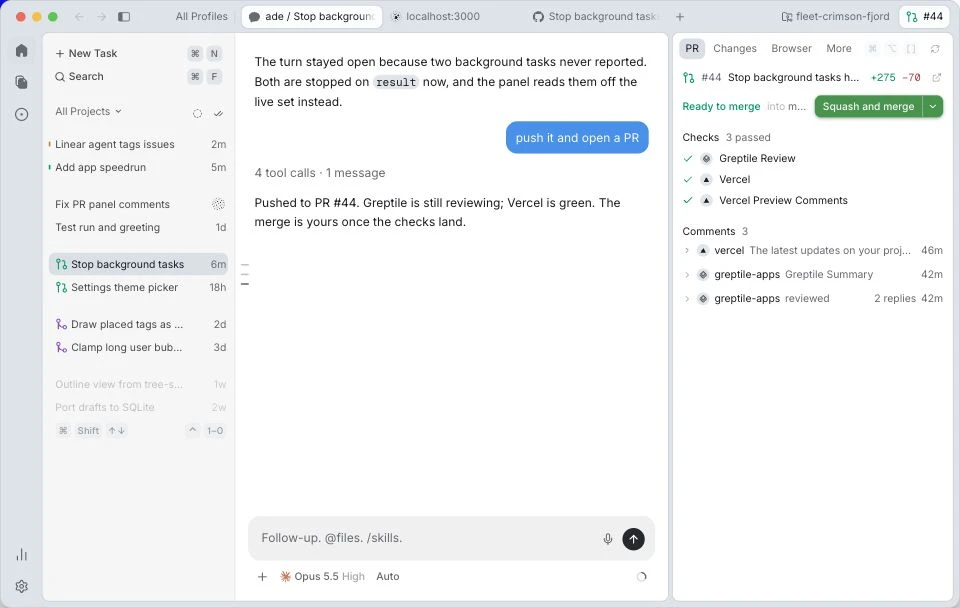
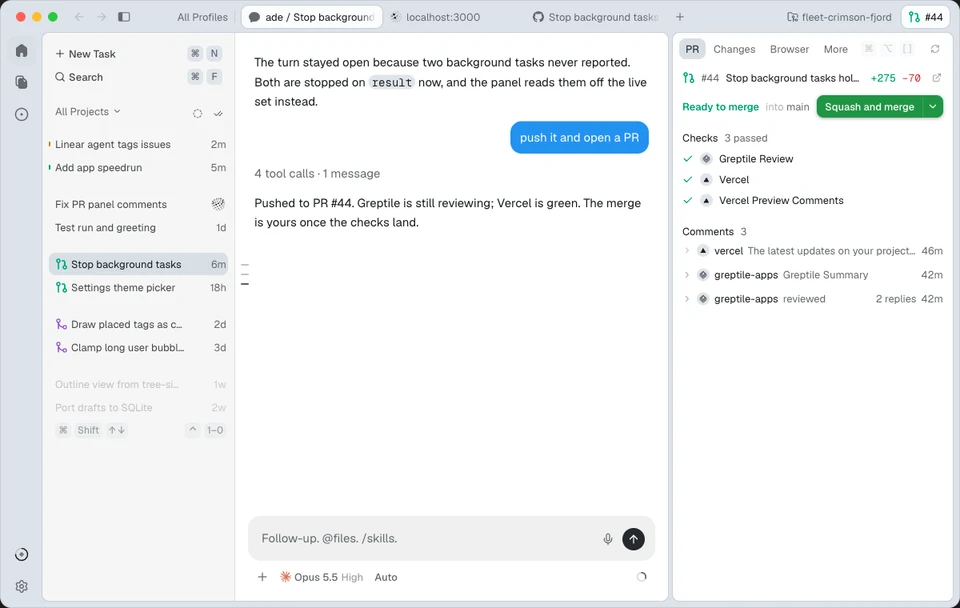
Match homepage preview to the current app (CBN-72)

diff --git a/apps/web/src/components/app/HomeCards.tsx b/apps/web/src/components/app/HomeCards.tsx
@@ -1,0 +1,123 @@
+import { useState, type ReactNode } from "react";
+import { CalendarDays, ChartNoAxesColumn, Gauge, GitPullRequest, History, type LucideIcon } from "lucide-react";
+
+import { ClaudeGlyph } from "@/components/ClaudeGlyph";
+import { OpenAIGlyph } from "@/components/OpenAIGlyph";
+import { GrokGlyph } from "@/components/GrokGlyph";
+import { cx } from "./Window";
+
+type HomeSession = { id: string; title: string; meta: string; mark: ReactNode };
+
+const LEVELS = ["bg-blue-500/[0.08]", "bg-blue-500/25", "bg-blue-500/45", "bg-blue-500/70", "bg-blue-500"];
+const DAYS = Array.from({ length: 182 }, (_, i) => {
+  const date = new Date(Date.UTC(2026, 4, 18 + i));
+  const count = (i * 7 + Math.floor(i / 7) * 3) % 11;
+  return { date, count, level: count === 0 ? 0 : Math.ceil(count / 2.5) };
+});
+
+/// Uses the preview's sessions so the home's shortcuts open the same conversations as the sidebar.
+export function HomeCards({ recent, pullRequests, onOpen }: {
+  recent: HomeSession[];
+  pullRequests: HomeSession[];
+  onOpen: (id: string) => void;
+}) {
+  const [hovered, setHovered] = useState<number | null>(null);
+  const day = hovered === null ? null : DAYS[hovered];
+  const total = DAYS.reduce((sum, cell) => sum + cell.count, 0);
+  const activeDays = DAYS.filter((cell) => cell.count > 0).length;
+
+  return (
+    <div className="@container mx-auto w-full max-w-5xl px-4">
+      <div className="grid grid-cols-2 gap-3 @3xl:grid-cols-12">
+        <Card icon={CalendarDays} title="Activity" className="col-span-2 @3xl:col-span-6">
+          <div className="flex flex-1 flex-col justify-between gap-2.5 px-4 pb-3">
+            <div role="img" aria-label="Session activity over the last 26 weeks" className="grid grid-flow-col grid-rows-7 gap-[3px]" style={{ gridAutoColumns: "minmax(0, 1fr)" }} onPointerLeave={() => setHovered(null)}>
+              {DAYS.map((cell, i) => <span key={i} onPointerEnter={() => setHovered(i)} className={cx("aspect-square rounded-[4px]", LEVELS[cell.level], hovered === i && "outline outline-1 outline-foreground/50")} />)}
+            </div>
+            <div className="flex items-baseline justify-between gap-3 text-xs text-muted-foreground tabular-nums">
+              <span className="truncate">{day ? `${day.date.toLocaleDateString("en-US", { month: "short", day: "numeric", timeZone: "UTC" })} · ${day.count} sessions` : `${total} sessions · ${activeDays} active days · 8.2M tokens`}</span>
+              <span className="shrink-0">May – Nov</span>
+            </div>
+          </div>
+        </Card>
+        <Card icon={History} title="Recent sessions" className="col-span-2 @3xl:col-span-6">
+          <Rows sessions={recent} onOpen={onOpen} />
+        </Card>
+        <Card icon={Gauge} title="Usage" className="@3xl:col-span-3">
+          <div className="flex flex-1 flex-col justify-between gap-3 px-4 pb-3">
+            <div>
+              <p className="text-2xl font-medium tracking-tight text-foreground tabular-nums">74%</p>
+              <p className="text-xs text-muted-foreground">remaining across 3 subscriptions</p>
+            </div>
+            <ul className="flex flex-col gap-2">
+              {[
+                { label: "Codex", icon: OpenAIGlyph, percent: 74 },
+                { label: "Claude Code", icon: ClaudeGlyph, percent: 82 },
+                { label: "Grok", icon: GrokGlyph, percent: 66 },
+              ].map(({ label, icon: Icon, percent }) => (
+                <li key={label} className="flex flex-col gap-1">
+                  <div className="flex items-center gap-2 text-xs">
+                    <Icon className="size-3.5 shrink-0 text-muted-foreground" />
+                    <span className="min-w-0 flex-1 truncate text-muted-foreground">{label}</span>
+                    <span className="text-foreground tabular-nums">{percent}%</span>
+                  </div>
+                  <div role="meter" aria-label={`${label} remaining`} aria-valuemin={0} aria-valuemax={100} aria-valuenow={percent} className="h-1 overflow-hidden rounded-full bg-foreground/10">
+                    <div className="h-full rounded-full bg-foreground" style={{ width: `${percent}%` }} />
+                  </div>
+                </li>
+              ))}
+            </ul>
+            <p className="truncate text-xs text-muted-foreground">Updates in 2h</p>
+          </div>
+        </Card>
+        <Card icon={GitPullRequest} title="Pull requests" className="order-last col-span-2 @3xl:order-none @3xl:col-span-6">
+          <Rows sessions={pullRequests} onOpen={onOpen} />
+        </Card>
+        <Card icon={ChartNoAxesColumn} title="This week" className="@3xl:col-span-3">
+          <div className="flex flex-1 flex-col justify-between gap-3 px-4 pb-3">
+            <div role="img" aria-label="Sessions per day: Monday 3, Tuesday 5, Wednesday 4, Thursday 7, Friday 6, Saturday 4" className="flex gap-1.5">
+              {[3, 5, 4, 7, 6, 4, 0].map((count, i) => (
+                <div key={i} className="flex min-w-0 flex-1 flex-col items-center gap-1">
+                  <div className="flex h-10 w-full items-end"><div className={cx("min-h-0.5 w-full rounded-[3px]", i === 5 ? "bg-primary" : i === 6 ? "bg-foreground/[0.04]" : "bg-primary/45")} style={{ height: `${count / 7 * 100}%` }} /></div>
+                  <span className={cx("text-[0.625rem] leading-none", i === 5 ? "text-foreground" : "text-muted-foreground/70")}>{["M", "T", "W", "T", "F", "S", "S"][i]}</span>
+                </div>
+              ))}
+            </div>
+            <dl className="flex flex-col gap-2">
+              {[{ label: "Sessions", value: 29, delta: 5 }, { label: "Projects", value: 3, delta: 1 }].map(({ label, value, delta }) => (
+                <div key={label}>
+                  <dt className="text-xs text-muted-foreground">{label}</dt>
+                  <dd className="flex items-baseline gap-2"><span className="text-lg leading-tight font-medium tabular-nums">{value}</span><span className="truncate text-xs text-muted-foreground"><span className="text-accent-add">+{delta}</span> vs last week</span></dd>
+                </div>
+              ))}
+            </dl>
+          </div>
+        </Card>
+      </div>
+    </div>
+  );
+}
+
+function Card({ icon: Icon, title, className, children }: { icon: LucideIcon; title: string; className?: string; children: ReactNode }) {
+  return (
+    <section aria-label={title} className={cx("flex min-w-0 flex-col rounded-xl border border-hairline bg-card shadow-(--shadow-card)", className)}>
+      <h2 className="flex items-center gap-2 px-4 pt-3 pb-2 text-ui font-normal text-muted-foreground"><Icon className="size-3.5 shrink-0" strokeWidth={1.5} aria-hidden />{title}</h2>
+      {children}
+    </section>
+  );
+}
+
+function Rows({ sessions, onOpen }: { sessions: HomeSession[]; onOpen: (id: string) => void }) {
+  return (
+    <ul className="px-1.5 pb-1.5">
+      {sessions.map((session) => (
+        <li key={session.id}>
+          <button type="button" onClick={() => onOpen(session.id)} className="flex w-full cursor-pointer items-center gap-2.5 rounded-md px-2.5 py-1.5 text-left outline-none hover:bg-sidebar-accent/50 focus-visible:ring-2 focus-visible:ring-ring/50">
+            <span className="flex size-4 shrink-0 items-center justify-center">{session.mark}</span>
+            <span className="min-w-0 flex-1"><span className="block truncate text-ui">{session.title}</span><span className="block truncate text-xs text-muted-foreground">{session.meta}</span></span>
+          </button>
+        </li>
+      ))}
+    </ul>
+  );
+}

diff --git a/apps/web/src/components/app/Chat.tsx b/apps/web/src/components/app/Chat.tsx
@@ -316,9 +316,7 @@ export function QuestionCard({
   );
 }
 
-/// The composer before a session exists, standing alone mid-sheet: the
-/// wordmark, the toolbar above the box rather than under it, no card around
-/// the box, and a hint where the send button was. Enter sends.
+/// Mirrors the new-task card, with the model at the end of its bottom toolbar.
 export function NewTaskComposer({
   value,
   onChange,
@@ -342,7 +340,7 @@ export function NewTaskComposer({
   base: string;
 }) {
   return (
-    <div className="flex min-h-0 flex-1 items-center px-10">
+    <div className="px-4 pb-4">
       <form
         className="mx-auto w-full max-w-3xl"
         onSubmit={(event) => {
@@ -350,48 +348,57 @@ export function NewTaskComposer({
           onSend();
         }}
       >
-        <Wordmark className="mb-4 h-auto w-30 text-foreground/10" />
-        <div className="-ml-2.5 flex min-w-0 items-center gap-0.5 px-1 pb-1.5 text-ui font-medium text-muted-foreground">
-          <span className="grid size-7 shrink-0 place-items-center">
-            <Plus className="size-4" />
-          </span>
-          <span className="flex h-7 shrink-0 items-center gap-1 px-1.5">
-            {agent}
-            <span>{model}</span>
-            {effort && <span className="text-muted-foreground/60">{effort}</span>}
-          </span>
-          <span className="flex h-7 shrink-0 items-center gap-1.5 px-1.5">
-            <Folder className="size-3.5 shrink-0 fill-current" />
-            {project}
-          </span>
-          {/* The track reads as on or off at a glance. */}
-          <span className="flex h-7 shrink-0 items-center gap-1.5 px-1.5 text-foreground">
-            <span className="flex h-3 w-5 shrink-0 items-center rounded-full bg-primary p-px">
-              <span className="size-2.5 translate-x-2 rounded-full bg-background" />
-            </span>
-            Worktree
-          </span>
-          <span className="truncate px-1.5 font-normal text-muted-foreground/60">from {base}</span>
-          <span className="flex h-7 shrink-0 items-center px-1.5">{mode}</span>
+        <Wordmark aria-hidden className="mb-4 ml-1 h-7 w-26 text-foreground" />
+        <div className="rounded-2xl border border-hairline bg-card shadow-(--shadow-card)">
+          <div className="px-3 pt-3">
+            <textarea
+              rows={3}
+              autoFocus
+              aria-label="Describe a task"
+              value={value}
+              onChange={(event) => onChange(event.target.value)}
+              onKeyDown={(event) => {
+                if (event.key === "Enter" && !event.shiftKey && !event.nativeEvent.isComposing) {
+                  event.preventDefault();
+                  onSend();
+                }
+              }}
+              placeholder="Describe a task."
+              className="field-sizing-content min-h-[3.5lh] max-h-40 w-full resize-none bg-transparent px-1 py-1 text-prompt text-foreground outline-none placeholder:text-muted-foreground"
+            />
+          </div>
+          <div className="flex items-center gap-1 pt-1 pr-2.5 pb-2.5 pl-1.5">
+            <div className="flex min-w-0 flex-1 items-center gap-0.5 px-1 text-ui font-medium text-muted-foreground">
+              <span className="grid size-7 shrink-0 place-items-center"><Plus className="size-4" /></span>
+              <span className="flex h-7 shrink-0 items-center gap-1.5 px-1.5">
+                <Folder className="size-3.5 fill-current" />{project}
+              </span>
+              <span className="flex h-7 shrink-0 items-center gap-1.5 px-1.5 text-foreground">
+                <span className="flex h-3 w-5 shrink-0 items-center rounded-full bg-primary p-px">
+                  <span className="size-2.5 translate-x-2 rounded-full bg-background" />
+                </span>
+                Worktree
+              </span>
+              <span className="truncate px-1.5 font-normal text-muted-foreground/60">from {base}</span>
+              <span className="flex h-7 shrink-0 items-center px-1.5">{mode}</span>
+              <span className="ml-auto flex h-7 min-w-0 items-center gap-1 px-1.5">
+                {agent}<span className="truncate">{model}</span>
+                {effort && <span className="text-muted-foreground/60">{effort}</span>}
+              </span>
+            </div>
+            <span className="grid size-7 shrink-0 place-items-center text-muted-foreground"><Mic className="size-4" /></span>
+            <button
+              type="submit"
+              aria-label="Send task"
+              disabled={!value.trim()}
+              className="grid size-7 shrink-0 place-items-center rounded-full bg-primary text-primary-foreground hover:bg-primary/90 focus-visible:outline-2 focus-visible:outline-ring disabled:bg-muted disabled:text-muted-foreground"
+            >
+              <ArrowUp strokeWidth={2} className="size-4" />
+            </button>
+          </div>
         </div>
-        <textarea
-          rows={1}
-          autoFocus
-          aria-label="Describe a task"
-          value={value}
-          onChange={(event) => onChange(event.target.value)}
-          onKeyDown={(event) => {
-            // An IME's Enter picks a character; it is not a send.
-            if (event.key === "Enter" && !event.shiftKey && !event.nativeEvent.isComposing) {
-              event.preventDefault();
-              onSend();
-            }
-          }}
-          placeholder="Describe a task."
-          className="field-sizing-content max-h-40 w-full resize-none bg-transparent py-1 text-prompt text-foreground outline-none placeholder:text-muted-foreground"
-        />
-        <div className="flex items-center gap-1 pt-2 text-ui text-muted-foreground/60">
-          Press <CornerDownLeft className="size-3" strokeWidth={2} /> to send
+        <div className="flex min-h-8 items-center gap-1 px-1 pt-2 text-ui text-muted-foreground/60">
+          <CornerDownLeft className="size-3" strokeWidth={2} /> to send
         </div>
       </form>
     </div>

diff --git a/apps/web/src/components/illustrations/Hero.tsx b/apps/web/src/components/illustrations/Hero.tsx
@@ -4,6 +4,7 @@ import { useEffect, useRef, useState, type ReactNode } from "react";
 import { FileCode2 } from "lucide-react";
 
 import { BrowserChrome } from "@/components/app/Browser";
+import { HomeCards } from "@/components/app/HomeCards";
 import Orb from "@/components/app/Orb";
 import Panel, {
   CheckPassed,
@@ -204,6 +205,7 @@ export function Hero({ className, startX = 240 }: { className?: string; startX?:
     <ScaledWindow width={WIDTH} height={HEIGHT} minScale={0.48} startX={startX} className={`${s.scene} ${className ?? ""}`}>
       <Window
         interactive
+        contentClassName={s.content}
         sidebarOpen={sidebarOpen}
         onToggleSidebar={() => setSidebarOpen((open) => !open)}
         onHome={() => open("new")}
@@ -305,22 +307,40 @@ export function Hero({ className, startX = 240 }: { className?: string; startX?:
             {!isNew && <BranchButton name={task?.branch ?? BRANCHES[selected as Fixed]} />}
             {/* The pull request stands in for the panel toggle, lit while the
                 pane is open on it. */}
-            {hasPr ? <ItemTab icon={pr} label="#44" active={panelOpen} fixed onClick={() => setPanelShown((shown) => !shown)} /> : <PanelToggle />}
+            {hasPr ? <ItemTab icon={pr} label="#44" active={panelOpen} fixed onClick={() => setPanelShown((shown) => !shown)} /> : !isNew && <PanelToggle />}
           </>
         }
         main={
           isNew ? (
-            <NewTaskComposer
-              value={draft}
-              onChange={setDraft}
-              onSend={send}
-              agent={<ClaudeGlyph className="size-3.5" />}
-              model="Opus 5.5"
-              effort="High"
-              mode="Auto"
-              project="ade"
-              base="main"
-            />
+            <div className="flex min-h-0 flex-1 flex-col overflow-y-auto">
+              <div className="my-auto w-full shrink-0 py-8">
+                <NewTaskComposer
+                  value={draft}
+                  onChange={setDraft}
+                  onSend={send}
+                  agent={<ClaudeGlyph className="size-3.5" />}
+                  model="Opus 5.5"
+                  effort="High"
+                  mode="Auto"
+                  project="ade"
+                  base="main"
+                />
+                <div className="pt-8">
+                  <HomeCards
+                    recent={[
+                      ...started.map((session) => ({ id: session.id, title: session.prompt, meta: "ade · just now", mark: <span className="size-1.5 rounded-full bg-accent-add" /> })),
+                      ...(["background", "linear", "speedrun", "comments"] as const).map((id, i) => ({ id, title: TITLES[id], meta: `ade · ${i + 1}h ago`, mark: <span className={`size-1.5 rounded-full ${id === "linear" && !tagged ? "bg-accent-command" : "bg-accent-add"}`} /> })),
+                    ].slice(0, 4)}
+                    pullRequests={[
+                      { id: "background", title: TITLES.background, meta: "#44 · ade", mark: pr },
+                      { id: "speedrun", title: TITLES.speedrun, meta: "#42 · ade", mark: <PrOpenGlyph /> },
+                      { id: "comments", title: TITLES.comments, meta: "#41 · ade", mark: <PrMergedGlyph /> },
+                    ]}
+                    onOpen={open}
+                  />
+                </div>
+              </div>
+            </div>
           ) : view === "browser" && hasPr ? (
             <DevServerPage />
           ) : (

diff --git a/apps/web/src/components/app/Window.tsx b/apps/web/src/components/app/Window.tsx
@@ -1,5 +1,5 @@
 import type { ReactNode } from "react";
-import { ArrowLeft, ArrowRight, ChartNoAxesColumn, CircleDot, Settings } from "lucide-react";
+import { ArrowLeft, ArrowRight, CircleDot, Settings } from "lucide-react";
 
 import { SIDEBAR_WIDTH } from "./Sidebar";
 
@@ -18,6 +18,7 @@ export default function Window({
   onHome,
   onBack,
   onForward,
+  contentClassName,
   className,
 }: {
   sidebar: ReactNode;
@@ -38,6 +39,7 @@ export default function Window({
   onHome?: () => void;
   onBack?: () => void;
   onForward?: () => void;
+  contentClassName?: string;
   className?: string;
 }) {
   return (
@@ -89,13 +91,19 @@ export default function Window({
           </span>
           <span aria-hidden className="grid size-9 place-items-center text-muted-foreground"><CircleDot className="size-4.5" /></span>
           <div className="flex-1" />
-          <span aria-hidden className="grid size-9 place-items-center text-muted-foreground"><ChartNoAxesColumn className="size-4.5" /></span>
+          <span role="img" aria-label="Subscription usage" className="grid size-9 place-items-center text-foreground">
+            <svg viewBox="0 0 24 24" className="size-5 shrink-0" fill="none" aria-hidden>
+              <circle cx="12" cy="12" r="9" stroke="currentColor" strokeWidth="1.7" opacity="0.18" />
+              <circle cx="12" cy="12" r="9" pathLength="100" stroke="currentColor" strokeWidth="1.7" strokeLinecap="round" strokeDasharray="100" strokeDashoffset="26" transform="rotate(-90 12 12)" />
+              <path d="m12 8 4 4-4 4-4-4z" fill="currentColor" opacity="0.5" />
+            </svg>
+          </span>
           <span aria-hidden className="grid size-9 place-items-center text-muted-foreground"><Settings className="size-4.5" /></span>
         </nav>
         <div className="flex min-w-0 flex-1 gap-1.5">
           <Sheet className="flex-1">
             {sidebarOpen && <div className="flex shrink-0 border-r border-hairline bg-surface-frame/50">{sidebar}</div>}
-            <div className="flex min-w-0 flex-1 flex-col">{main}</div>
+            <div className={cx("flex min-w-0 flex-1 flex-col", contentClassName)}>{main}</div>
             {crew}
           </Sheet>
           {panel && <Sheet className="shrink-0">{panel}</Sheet>}

diff --git a/apps/web/src/components/illustrations/Hero.module.css b/apps/web/src/components/illustrations/Hero.module.css
@@ -1,3 +1,20 @@
+.content {
+  background-size: cover;
+  background-position: center;
+}
+
+:global(:root:not([data-scheme="light"])) .content {
+  --color-card: oklch(0.3 0 0 / 70%);
+  --color-composer: oklch(0.3 0 0 / 62%);
+  background-image:
+    linear-gradient(
+      to right,
+      color-mix(in oklab, var(--color-background) 88%, transparent),
+      color-mix(in oklab, var(--color-background) 50%, transparent) 55%
+    ),
+    url("/carbon-backdrop.webp");
+}
+
 /* A row the visitor's own click brought in eases up into place. */
 .enter { animation: enter 200ms ease-out; }
 
